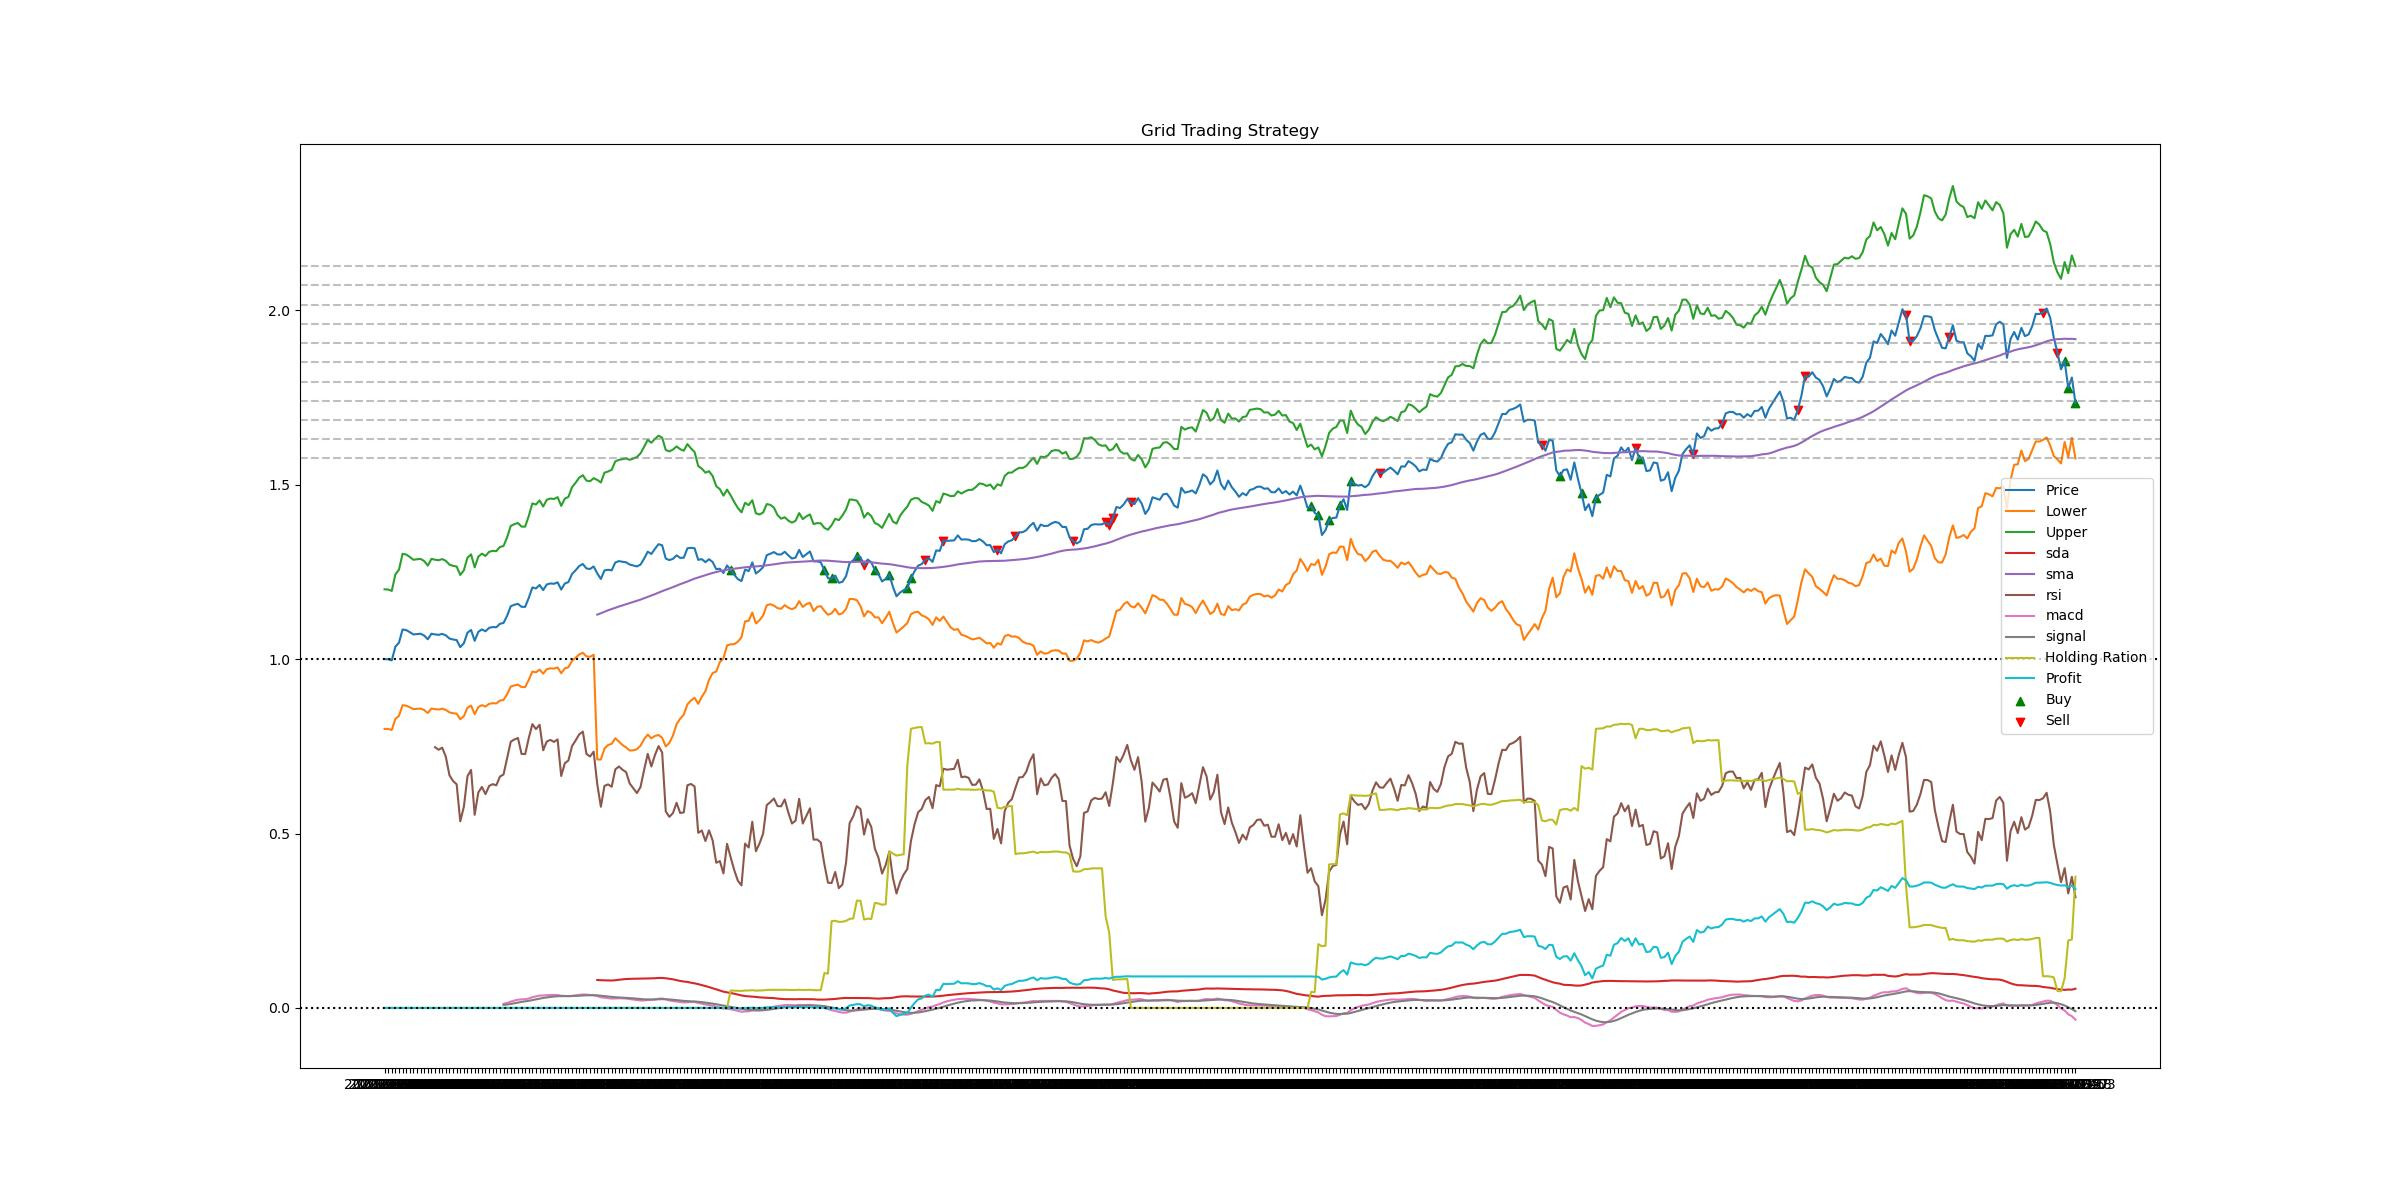
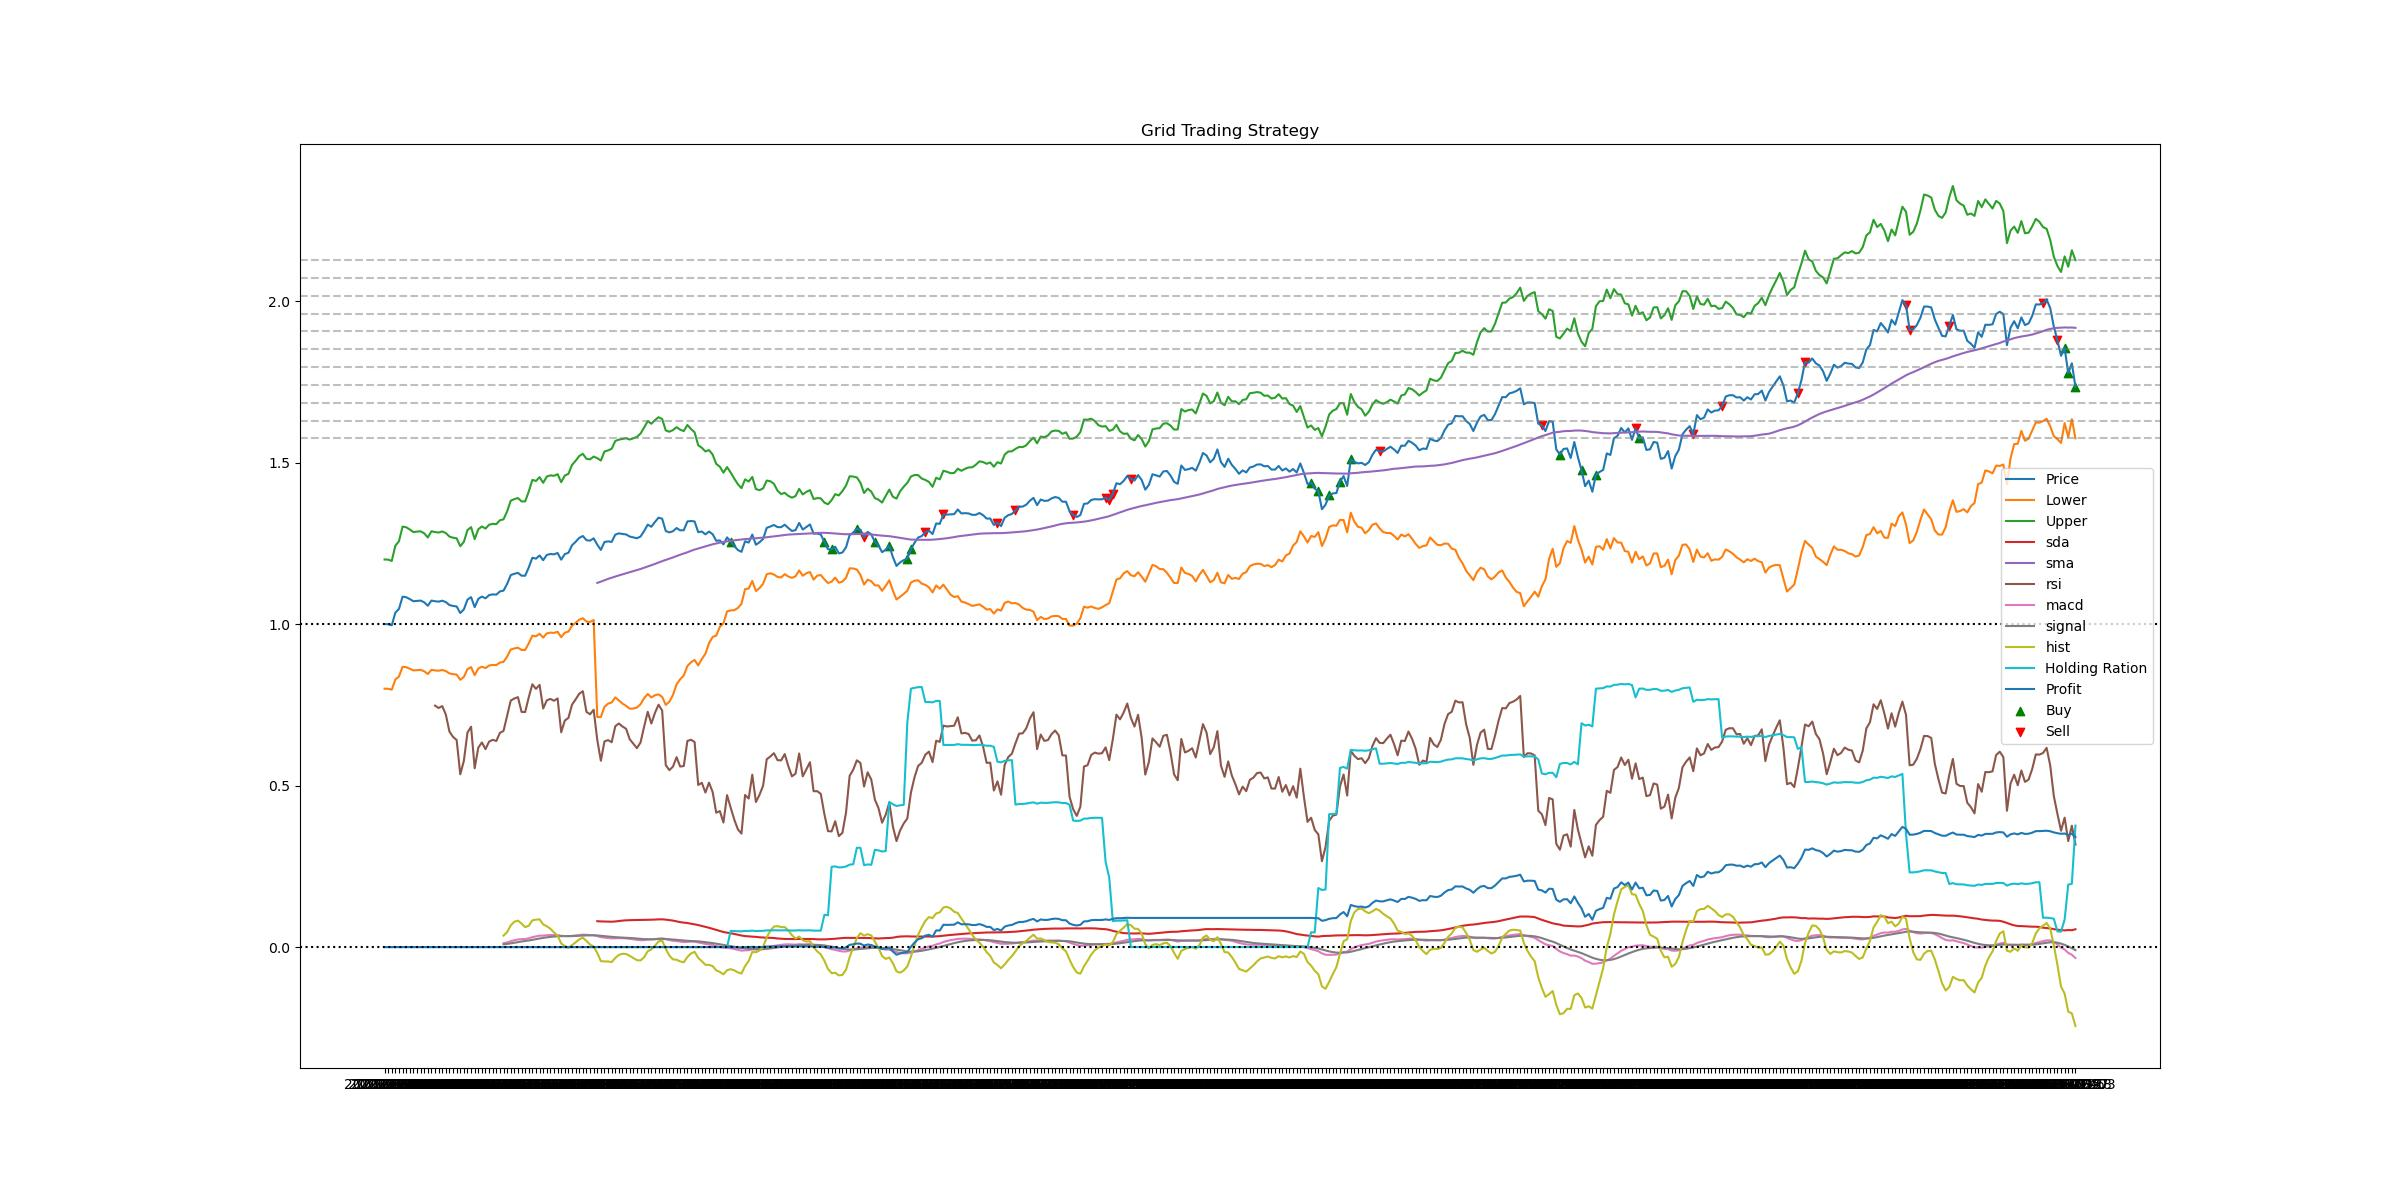
tm

Changed region(s): [[0.125, 0.1542, 0.9062, 0.8633]]

diff --git a/ayaa/utils/perf.py b/ayaa/utils/perf.py
@@ -24,7 +24,7 @@ def calculate_bollinger_bands(data, window=20, num_std=2, price_col='close', fil
     df['sbc5n'] = df['sbc5'].apply(lambda x : x if x < 0 else 0)
 
     df['rsi'] = talib.RSI(df[price_col], timeperiod=14) / 100
-    df['macd'], df['signal'], hist = talib.MACD(df[price_col], fastperiod=12, slowperiod=26, signalperiod=9)
+    df['macd'], df['signal'], df['hist'] = talib.MACD(df[price_col], fastperiod=12, slowperiod=26, signalperiod=9)
     # 计算标准差
     df['sda'] = df[price_col].rolling(window=window).std()
     rolling_std = df[price_col].rolling(window=window).std()
@@ -34,6 +34,9 @@ def calculate_bollinger_bands(data, window=20, num_std=2, price_col='close', fil
     # 计算上下轨
     df['upper_band'] = df['sma'] + (rolling_std * num_std) + df['sbc5']
     df['lower_band'] = df['sma'] - (rolling_std * num_std) + df['sbc5']
+
+    #df['upper_band'] = (df['sma'] + (rolling_std * num_std))* (df['rsi'] / 0.7)
+    #df['lower_band'] = (df['sma'] - (rolling_std * num_std))* (df['rsi'] / 0.3)
 
     if fill_na:
         fill_d = pd.DataFrame({

diff --git a/ayaa/strategy/grid_strategy.py b/ayaa/strategy/grid_strategy.py
@@ -187,6 +187,7 @@ class GridTradingStrategy:
         plt.plot(self.data['date'], self.ub['rsi'], label='rsi')
         plt.plot(self.data['date'], self.ub['macd'], label='macd')
         plt.plot(self.data['date'], self.ub['signal'], label='signal')
+        plt.plot(self.data['date'], self.ub['hist']*10, label='hist')
 
         plt.plot([i['date'] for i in self.holding_rations], [i['ration'] for i in self.holding_rations], label='Holding Ration')
         plt.plot([i['date'] for i in self.holding_rations], [i['profit'] for i in self.holding_rations], label='Profit')
